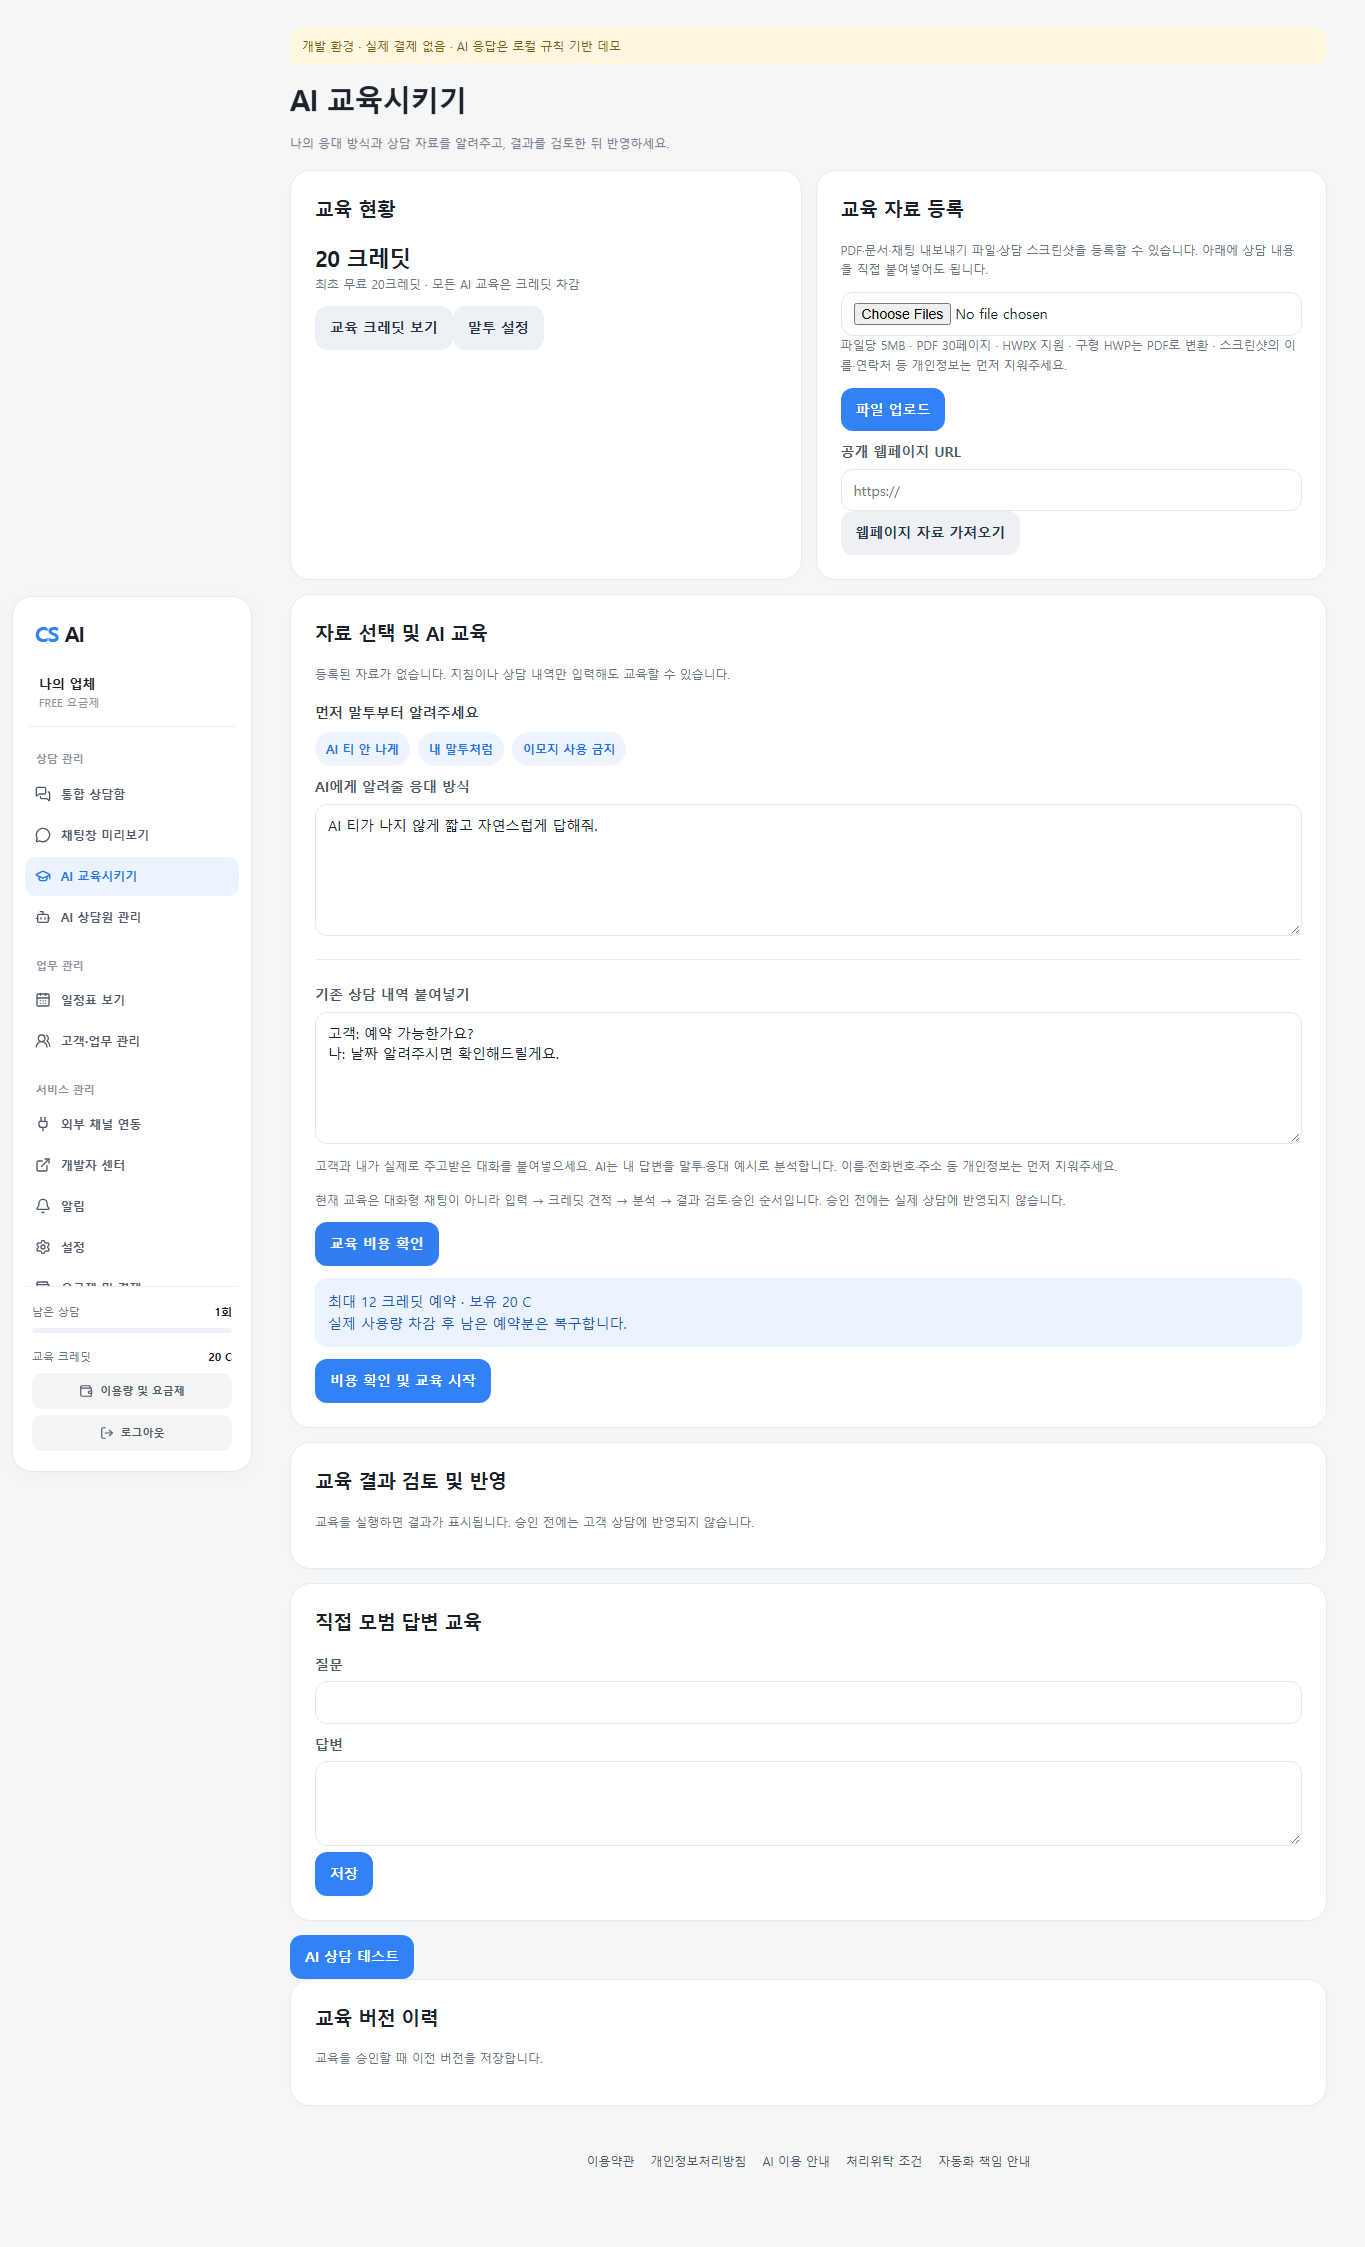
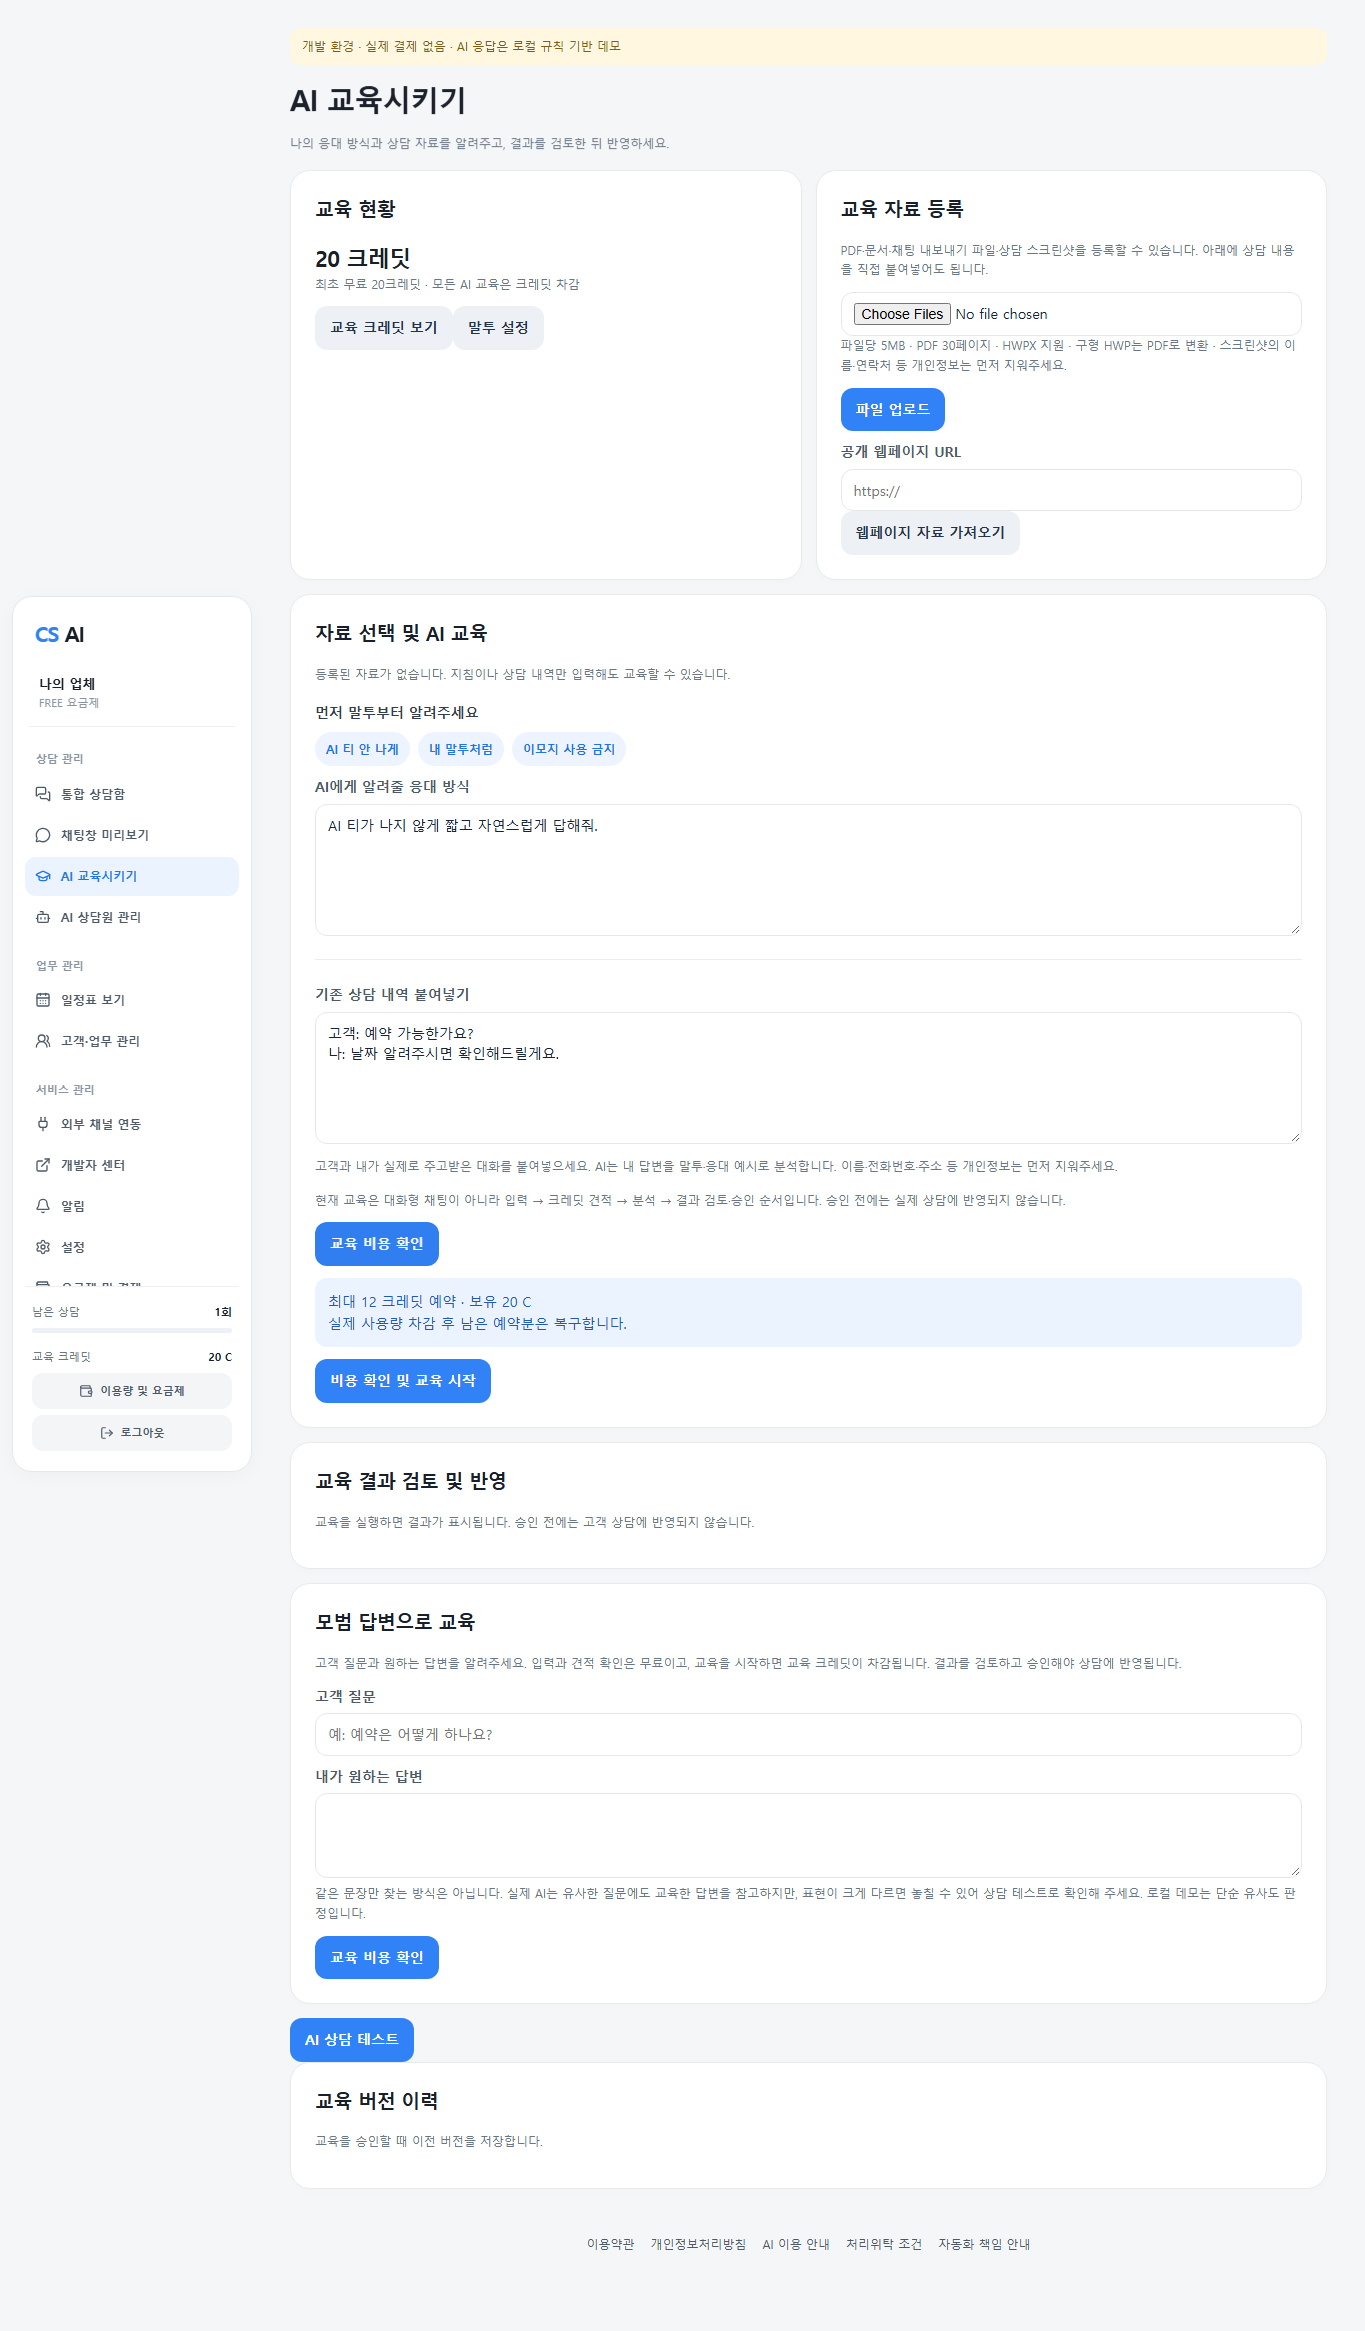
clarify paid answer training and FAQ matching

diff --git a/web/app.js b/web/app.js
@@ -103,7 +103,7 @@ async function education(){
  let fileList=files.map(f=>`<div class="row line"><input class="check file-check" type="checkbox" value="${e(f.id)}" checked><span>${e(f.name)} <small>${f.chars}자</small></span>${btn('삭제',`act(async()=>{await api('/api/files/${f.id}',undefined,'DELETE');render()})`)}</div>`).join('')||'<p class="muted">등록된 자료가 없습니다. 지침이나 상담 내역만 입력해도 교육할 수 있습니다.</p>';
  let training=card('자료 선택 및 AI 교육',`${fileList}${agent?label('교육 대상',select('training-agent',[['','기본 상담원'],[agent.id,agent.settings.brand]],educationAgent)):''}${examples}${label('AI에게 알려줄 응대 방식',`<textarea id="training-text" maxlength="30000" placeholder="예: AI 티가 나지 않게 짧고 자연스럽게 답해줘. 모르는 내용은 추측하지 말고 담당자 확인이 필요하다고 안내해줘."></textarea>`)}${conversation}<p class="muted">현재 교육은 대화형 채팅이 아니라 입력 → 크레딧 견적 → 분석 → 결과 검토·승인 순서입니다. 승인 전에는 실제 상담에 반영되지 않습니다.</p>${btn('교육 비용 확인','estimateTraining()','primary')}<div id="estimate"></div>`);
  let results=card('교육 결과 검토 및 반영',jobs.filter(j=>j.result).map(j=>`<div class="line"><strong>${e(j.agent?'추가 상담원':'기본 상담원')} · ${e(j.state==='published'?'반영 완료':'검토 필요')} · ${j.cost} C</strong><pre class="scrolltext">${e(JSON.stringify(j.result,null,2))}</pre>${j.state==='review'?btn('결과 수정',`reviewModal('${j.id}')`)+btn('승인 및 상담에 반영',`act(async()=>{await api('/api/training/${j.id}/publish',{});await refresh();render()})`,'primary'):''}</div>`).join('')||'<p class="muted">교육을 실행하면 결과가 표시됩니다. 승인 전에는 고객 상담에 반영되지 않습니다.</p>');
- let direct=card('직접 모범 답변 교육',`${label('질문',input('faq-q'))}${label('답변',ta('faq-a'))}${btn('저장',"act(async()=>{showEducationQuote(await api('/api/faq',{q:val('faq-q'),a:val('faq-a')}))})",'primary')}${faq.map(f=>`<div class="line"><b>${e(f.q)}</b><p>${e(f.a)}</p>${btn('삭제',`act(async()=>{await api('/api/faq/${f.id}',undefined,'DELETE');render()})`)}</div>`).join('')}`);
+ let direct=card('모범 답변으로 교육',`<p class="muted">고객 질문과 원하는 답변을 알려주세요. 입력과 견적 확인은 무료이고, 교육을 시작하면 교육 크레딧이 차감됩니다. 결과를 검토하고 승인해야 상담에 반영됩니다.</p>${label('고객 질문',input('faq-q','','text','예: 예약은 어떻게 하나요?'))}${label('내가 원하는 답변',ta('faq-a'))}<p class="muted">같은 문장만 찾는 방식은 아닙니다. 실제 AI는 유사한 질문에도 교육한 답변을 참고하지만, 표현이 크게 다르면 놓칠 수 있어 상담 테스트로 확인해 주세요. 로컬 데모는 단순 유사도 판정입니다.</p>${btn('교육 비용 확인',"act(async()=>{showEducationQuote(await api('/api/faq',{q:val('faq-q'),a:val('faq-a')}))})",'primary')}${faq.map(f=>`<div class="line"><b>${e(f.q)}</b><p>${e(f.a)}</p>${btn('삭제',`act(async()=>{await api('/api/faq/${f.id}',undefined,'DELETE');render()})`)}</div>`).join('')}`);
  return pageTop('AI 교육시키기','나의 응대 방식과 상담 자료를 알려주고, 결과를 검토한 뒤 반영하세요.')+`<div class="grid">${card('교육 현황',`<div class="price">${me.credits} 크레딧</div><p class="muted">최초 무료 20크레딧 · 모든 AI 교육은 크레딧 차감</p>${btn('교육 크레딧 보기',"go('credits')")}${btn('말투 설정',"go('style')")}`)}${materials}</div>`+training+results+direct+btn('AI 상담 테스트',"go('test')",'primary');
 }
 function insertTrainingExample(index){

diff --git a/tests/live_ui_smoke.py b/tests/live_ui_smoke.py
@@ -36,9 +36,15 @@ with sync_playwright() as pw:
     desktop.get_by_role("button", name="AI 티 안 나게").click()
     assert "AI 티가 나지 않게" in desktop.locator("#training-text").input_value()
     desktop.locator("#training-conversation").fill("고객: 예약 가능한가요?\n나: 날짜 알려주시면 확인해드릴게요.")
-    desktop.get_by_role("button", name="교육 비용 확인").click()
+    desktop.get_by_role("button", name="교육 비용 확인").first.click()
     desktop.locator("#estimate .banner").wait_for()
     desktop.screenshot(path=str(OUT / "live_education_desktop.png"), full_page=True)
+    desktop.locator("#faq-q").fill("예약은 어떻게 하나요?")
+    desktop.locator("#faq-a").fill("원하시는 날짜를 알려주세요.")
+    desktop.get_by_role("button", name="교육 비용 확인").nth(1).click()
+    desktop.get_by_role("heading", name="AI 교육 비용 확인").wait_for()
+    desktop.locator(".modal").get_by_text("최대", exact=False).wait_for()
+    desktop.locator(".modal").get_by_role("button", name="닫기").click()
     desktop.locator(".app-sidebar").get_by_role("button", name="통합 상담함").click()
     desktop.get_by_role("heading", name="통합 상담함").wait_for()
     assert desktop.locator("#inbox-kind").count() == 1

diff --git a/tests/test_training_chunks.py b/tests/test_training_chunks.py
@@ -30,3 +30,11 @@ def test_published_training_style_overrides_initial_preset(monkeypatch):
     ai.answer('안녕하세요',[],DEFAULT|{'emoji':True},[],{'style':'AI 티 안 나게 답하고 이모지 사용 금지','rules':[]},set())
     assert seen[0]['style']=='AI 티 안 나게 답하고 이모지 사용 금지'
     assert seen[0]['emoji'] is False
+
+def test_small_faq_set_reaches_model_when_words_differ(monkeypatch):
+    monkeypatch.setattr(ai,'KEY','mock');seen=[]
+    def fake(*args,**kwargs):
+        seen.append(args[2]);return {'reply':'담당자 확인 후 안내드릴게요','unknown':False},{'input_tokens':100,'output_tokens':30}
+    monkeypatch.setattr(ai,'call',fake)
+    ai.answer('돈 돌려받고 싶어요',[],DEFAULT,[],{'faq':[{'q':'환불은 어떻게 하나요?','a':'담당자 확인 후 안내드립니다.'}]},set())
+    assert seen[0]['faq'][0]['q']=='환불은 어떻게 하나요?'

diff --git a/ai.py b/ai.py
@@ -132,8 +132,10 @@ def answer(msg,history,settings,faq,published,addons,booking_context=None,quote_
         if norm(msg)==norm(f['q']):return {'reply':f['a'],'unknown':False}
     data={'price':settings['price'],'location':settings['location']+' '+settings['hours']}.get(category,'').strip()
     if data:return {'reply':data,'unknown':False}
-    candidates=sorted(faq+published.get('faq',[]),key=lambda x:score(msg,x['q']),reverse=True)[:5]
+    all_faq=faq+published.get('faq',[])
+    candidates=sorted(all_faq,key=lambda x:score(msg,x['q']),reverse=True)[:5]
     relevant=[x for x in candidates if score(msg,x['q'])>.12]
+    if KEY and not relevant and len(all_faq)<=8:relevant=all_faq
     rules=sorted(published.get('rules',[]),key=lambda x:score(msg,x),reverse=True)[:4]
     if not KEY and DEMO:
         if relevant and score(msg,relevant[0]['q'])>.55:return {'reply':relevant[0]['a'],'unknown':False}

diff --git a/FEATURE_CHECKLIST.md b/FEATURE_CHECKLIST.md
@@ -87,4 +87,6 @@
 
 2026-11-26 AI 교육 입력 개선: 말투 예시 버튼(자연스러운 응대·내 말투·이모지 금지), 기존 상담 내역 붙여넣기, PDF·문서·채팅 내보내기·스크린샷 설명을 추가했습니다. 서버는 담당자가 직접 쓴 지침과 과거 상담 기록·업로드 자료를 분리하여 교육 견적 및 분석에 전달합니다. 승인된 교육 스타일을 실제 답변 요청에 우선 반영합니다. 개인정보 제거 안내를 표시하지만 자동 비식별화는 제공하지 않습니다. 현재 교육은 대화형 채팅이 아닌 견적→분석→결과 검토·승인 방식이며, 실제 OpenAI 연결 후 스타일 추출 품질 검증이 필요합니다. 전체 Python 테스트 85개와 로컬 PC·모바일 브라우저 검수 통과.
 
+2026-11-26 모범 답변 안내: 모범 답변은 무료 저장 기능이 아니라 견적 확인 후 교육 시작 시 크레딧 차감, 결과 승인 시 반영됩니다. 화면 버튼을 `교육 비용 확인`으로 수정하고 로컬 유사도 판정 한계를 안내했습니다. 실제 모델에 보내는 FAQ가 8개 이하일 때 문자 유사도가 낮아도 전체 FAQ를 참고 자료로 전달하도록 해 다른 표현의 질문도 해석할 여지를 마련했습니다. 의미가 같은 문장이라는 보장이나 모델 품질 검증은 아직 없습니다. 전체 Python 테스트 86개와 로컬 PC·모바일 브라우저 검수 통과.
+
 추가 안정화: 예약 관리자 등록·변경·취소·완료 알림 및 수동 상담 첫 문의 알림 추가. 실제 이메일은 확인된 Google 계정 주소만 허용하며 개발 모드에서는 모의 발송. 워커 서비스별 오류를 분리해 다른 자동 작업이 계속 실행되도록 변경. 회귀 테스트를 추가했으나 전체 실행 결과는 아직 검증하지 못했습니다.
